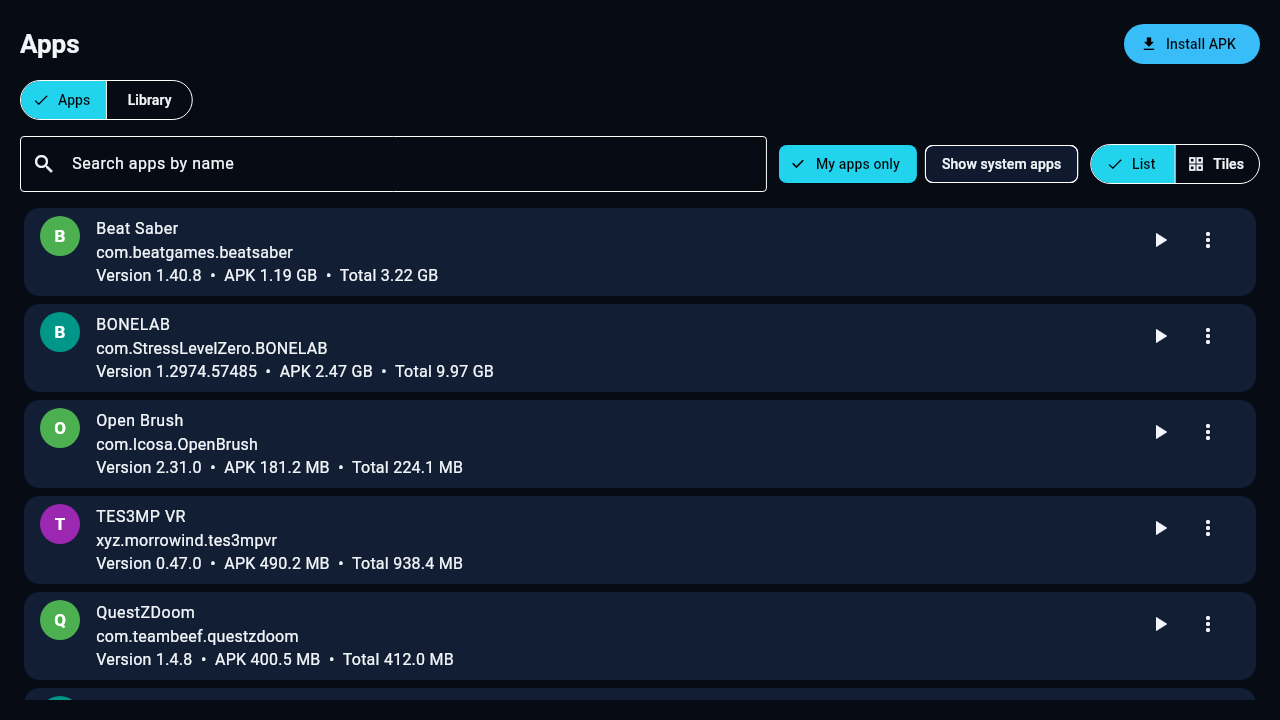
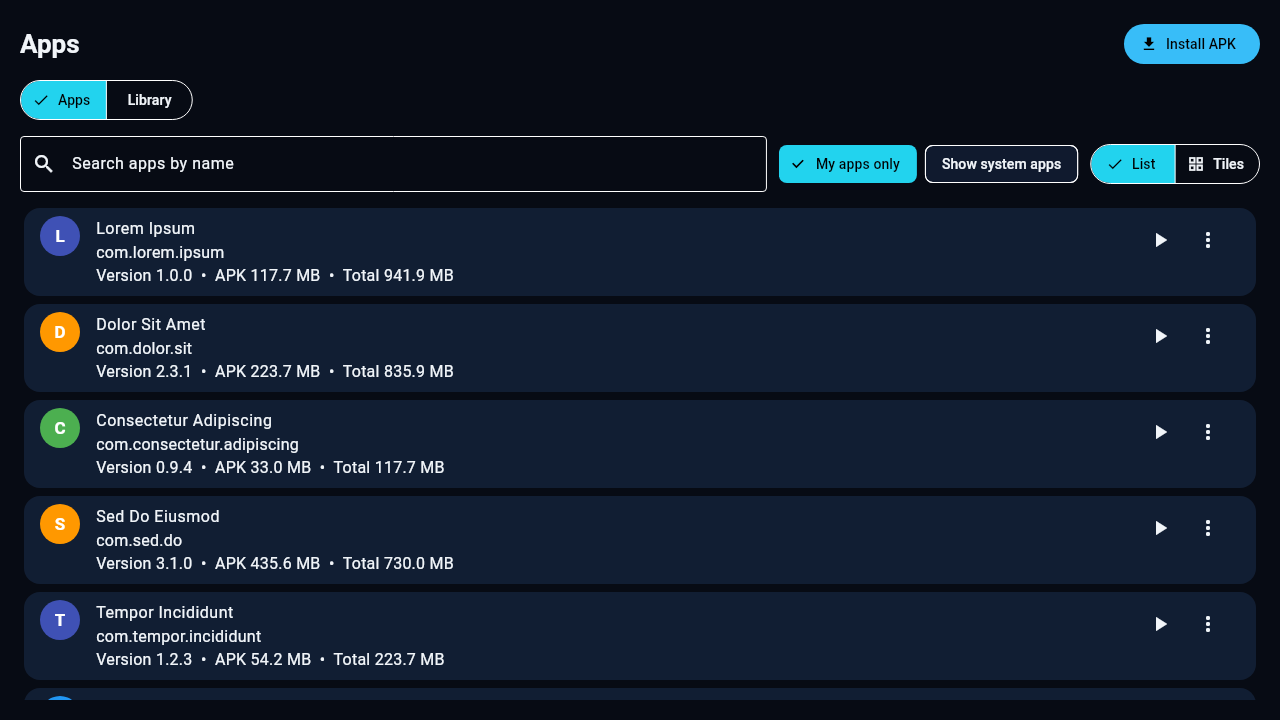
Screenshots: all screens with Lorem Ipsum data; drop package line from app tiles (overflowed with long names)

diff --git a/flutter_app/test/widget/apps_screenshots_test.dart b/flutter_app/test/widget/apps_screenshots_test.dart
@@ -1,7 +1,7 @@
-// Screenshot goldens for the README: the Apps screen rendered with
-// fake (invented) data, so the GitHub page can show the app without
-// a real headset and without any real user data. Nothing here is a
-// real serial, IP, or firmware value.
+// Screenshot goldens for the README: every screen rendered with
+// Lorem Ipsum placeholder data, so the GitHub page can show the app
+// without a real headset and without any real user data. Nothing here
+// is a real serial, IP, firmware value, app, file, or log line.
 // Regenerate with:
 //   flutter test --update-goldens test/widget/apps_screenshots_test.dart
 // The PNGs land in test/widget/goldens/; the README copies live in
@@ -14,6 +14,10 @@ import 'package:flutter/services.dart';
 import 'package:flutter_test/flutter_test.dart';
 import 'package:quest_companion/models.dart';
 import 'package:quest_companion/screens/apps_files.dart';
+import 'package:quest_companion/screens/device_mirror_logs_setup.dart';
+import 'package:quest_companion/screens/help.dart';
+import 'package:quest_companion/screens/home_devices.dart';
+import 'package:quest_companion/screens/pc_vr.dart';
 import 'package:quest_companion/services/app_state.dart';
 import 'package:quest_companion/services/backend.dart';
 import 'package:quest_companion/theme.dart';
@@ -25,21 +29,66 @@ const _device = QuestDevice(
   transport: 'usb',
 );
 
-// Fake apps, all invented: same set as
-// scripts/screenshot-mock-adb.sh, so the README shots and the
-// (unused) live mock agree.
+const _deviceInfo = DeviceInfo(
+  model: 'Quest 2',
+  serial: 'TESTSERIAL000001',
+  firmware: 'Lorem ipsum 1.0.0',
+  androidVersion: '14',
+  resolution: '3664x1920',
+  cpuAbi: 'arm64-v8a',
+  batteryLevel: 87,
+  batteryTempC: 31,
+  storageUsedGb: 86,
+  storageTotalGb: 112,
+  charging: true,
+);
+
+// Fake apps, all Lorem Ipsum: the point is placeholder text, not
+// pretending to be real apps.
 const _apps = <QuestApp>[
-  QuestApp(package: 'com.beatgames.beatsaber', label: 'Beat Saber', version: '1.40.8', system: false, apkSizeBytes: 1280000000, totalSizeBytes: 3460000000),
-  QuestApp(package: 'com.StressLevelZero.BONELAB', label: 'BONELAB', version: '1.2974.57485', system: false, apkSizeBytes: 2650000000, totalSizeBytes: 10700000000),
-  QuestApp(package: 'com.Icosa.OpenBrush', label: 'Open Brush', version: '2.31.0', system: false, apkSizeBytes: 190000000, totalSizeBytes: 235000000),
-  QuestApp(package: 'xyz.morrowind.tes3mpvr', label: 'TES3MP VR', version: '0.47.0', system: false, apkSizeBytes: 514000000, totalSizeBytes: 984000000),
-  QuestApp(package: 'com.teambeef.questzdoom', label: 'QuestZDoom', version: '1.4.8', system: false, apkSizeBytes: 420000000, totalSizeBytes: 432000000),
-  QuestApp(package: 'com.itsmattkc.questhomeswitcher', label: 'Quest Home Switcher', version: '1.2.0', system: false, apkSizeBytes: 12000000, totalSizeBytes: 20000000),
-  QuestApp(package: 'com.deovr', label: 'DeoVR', version: '1.16', system: false, apkSizeBytes: 48000000, totalSizeBytes: 63000000),
+  QuestApp(package: 'com.lorem.ipsum', label: 'Lorem Ipsum', version: '1.0.0', system: false, apkSizeBytes: 123456789, totalSizeBytes: 987654321),
+  QuestApp(package: 'com.dolor.sit', label: 'Dolor Sit Amet', version: '2.3.1', system: false, apkSizeBytes: 234567890, totalSizeBytes: 876543210),
+  QuestApp(package: 'com.consectetur.adipiscing', label: 'Consectetur Adipiscing', version: '0.9.4', system: false, apkSizeBytes: 34567890, totalSizeBytes: 123456789),
+  QuestApp(package: 'com.sed.do', label: 'Sed Do Eiusmod', version: '3.1.0', system: false, apkSizeBytes: 456789012, totalSizeBytes: 765432109),
+  QuestApp(package: 'com.tempor.incididunt', label: 'Tempor Incididunt', version: '1.2.3', system: false, apkSizeBytes: 56789012, totalSizeBytes: 234567890),
+  QuestApp(package: 'com.ut.labore', label: 'Ut Labore Et', version: '4.0.0', system: false, apkSizeBytes: 67890123, totalSizeBytes: 345678901),
+  QuestApp(package: 'com.dolore.magna', label: 'Dolore Magna Aliqua', version: '0.1.0', system: false, apkSizeBytes: 78901234, totalSizeBytes: 456789012),
 ];
 
-/// Answers only the calls the Apps screen makes; anything else is
-/// an error, so a screen change that needs a new backend call fails
+const _files = <QuestFile>[
+  QuestFile(name: 'Lorem ipsum', path: '/sdcard/Lorem ipsum', isDir: true, size: 0),
+  QuestFile(name: 'Dolor sit amet', path: '/sdcard/Dolor sit amet', isDir: true, size: 0),
+  QuestFile(name: 'Consectetur', path: '/sdcard/Consectetur', isDir: true, size: 0),
+  QuestFile(name: 'Lorem ipsum dolor.txt', path: '/sdcard/Lorem ipsum dolor.txt', isDir: false, size: 123456),
+  QuestFile(name: 'Sed do eiusmod.mp4', path: '/sdcard/Sed do eiusmod.mp4', isDir: false, size: 234567890),
+  QuestFile(name: 'Ut labore.pdf', path: '/sdcard/Ut labore.pdf', isDir: false, size: 3456789),
+  QuestFile(name: 'Dolore magna.png', path: '/sdcard/Dolore magna.png', isDir: false, size: 4567890),
+];
+
+const _gallery = <GalleryEntry>[
+  GalleryEntry(name: 'Lorem ipsum.png', path: '/sdcard/Lorem ipsum.png', kind: 'screenshot', modified: 'Lorem ipsum', sizeBytes: 1234567),
+  GalleryEntry(name: 'Dolor sit amet.mp4', path: '/sdcard/Dolor sit amet.mp4', kind: 'recording', modified: 'Dolor sit amet', sizeBytes: 234567890),
+  GalleryEntry(name: 'Consectetur.mp4', path: '/sdcard/Consectetur.mp4', kind: 'recording', modified: 'Consectetur', sizeBytes: 345678901),
+];
+
+const _logLines = <String>[
+  'Lorem ipsum dolor sit amet, consectetur adipiscing elit.',
+  'Sed do eiusmod tempor incididunt ut labore et dolore magna aliqua.',
+  'Ut enim ad minim veniam, quis nostrud exercitation ullamco laboris.',
+  'Duis aute irure dolor in reprehenderit in voluptate velit esse.',
+  'Excepteur sint occaecat cupidatat non proident, sunt in culpa.',
+  'Lorem ipsum dolor sit amet, consectetur adipiscing elit.',
+  'Sed do eiusmod tempor incididunt ut labore et dolore magna aliqua.',
+  'Ut enim ad minim veniam, quis nostrud exercitation ullamco laboris.',
+];
+
+const _deviceBackups = <DeviceBackupEntry>[
+  DeviceBackupEntry(serial: 'TESTSERIAL000001', backupDate: '2026-01-01 12:00', path: '/sdcard/LoremIpsum/lorem.zip', totalSizeBytes: 123456789, appCount: 7),
+  DeviceBackupEntry(serial: 'TESTSERIAL000001', backupDate: '2026-01-02 12:00', path: '/sdcard/LoremIpsum/ipsum.zip', totalSizeBytes: 234567890, appCount: 7),
+];
+
+/// Answers the calls the screens make at load; anything else is an
+/// error, so a screen change that needs a new backend call fails
 /// loudly here instead of silently rendering an empty screen.
 class FakeBackend implements BackendService {
   @override
@@ -48,10 +97,59 @@ class FakeBackend implements BackendService {
     if (name == #listApps) return Future<List<QuestApp>>.value(_apps);
     if (name == #listLibrary) return Future<List<LibraryEntry>>.value(const []);
     if (name == #listDevices) return Future<List<QuestDevice>>.value(const [_device]);
-    if (name == #deviceInfo) return Future<DeviceInfo?>.value(null);
+    if (name == #deviceInfo) return Future<DeviceInfo?>.value(_deviceInfo);
     if (name == #appIcon) return Future<AppIcon?>.value(null);
     if (name == #label) return 'Fake backend';
     if (name == #scrcpyAvailable) return Future<bool>.value(false);
+    if (name == #listFiles) return Future<List<QuestFile>>.value(_files);
+    if (name == #listGallery) return Future<List<GalleryEntry>>.value(_gallery);
+    if (name == #logLines) return Future<List<String>>.value(_logLines);
+    if (name == #rootStatus) {
+      return Future<RootStatus>.value(const RootStatus(
+        rooted: true, method: 'Magisk', suPresent: true, magiskPresent: true, singularityPresent: false));
+    }
+    if (name == #controllers) {
+      return Future<ControllersInfo>.value(const ControllersInfo(
+        names: ['Lorem Controller', 'Ipsum Controller'],
+        note: 'Lorem ipsum dolor sit amet, consectetur adipiscing elit.'));
+    }
+    if (name == #updateBlockStatus) {
+      return Future<UpdateBlockStatus?>.value(const UpdateBlockStatus(
+        blocked: false, rooted: true, disabledPackages: []));
+    }
+    if (name == #listDeviceBackups) return Future<List<DeviceBackupEntry>>.value(_deviceBackups);
+    if (name == #wivrnSetupState) {
+      return Future<Map<String, dynamic>>.value({
+        'client_version': '26.9', 'declined': false, 'server_installed': true,
+      });
+    }
+    if (name == #wivrnDetect) {
+      return Future<Map<String, dynamic>>.value({
+        'installed': true, 'kind': 'flatpak', 'server_version': '26.9',
+        'avahi_active': true, 'pipewire': true, 'port': 9757,
+        'note': 'Lorem ipsum dolor sit amet.',
+      });
+    }
+    if (name == #wivrnStatus) {
+      return Future<Map<String, dynamic>>.value({
+        'running': true, 'port_listening': true, 'active_runtime_is_wivrn': true,
+        'pipewire_nodes': true,
+        'log': 'Lorem ipsum dolor sit amet, consectetur adipiscing elit.\nSed do eiusmod tempor incididunt.',
+      });
+    }
+    if (name == #wivrnHeadsetClient) return Future<String?>.value('26.9');
+    if (name == #setupWifi) return Future<WifiSetupResult?>.value(null);
+    if (name == #wifiReconnect) return Future<List<String>>.value(const []);
+    if (name == #debugInfo) {
+      return Future<DebugInfo?>.value(const DebugInfo(
+        questctlVersion: 'Lorem ipsum',
+        adbVersion: 'Lorem ipsum',
+        backendPath: 'Fake backend',
+        scrcpyAvailable: false,
+        root: RootStatus(rooted: true, method: 'Magisk', suPresent: true, magiskPresent: true, singularityPresent: false),
+        device: _deviceInfo,
+      ));
+    }
     return super.noSuchMethod(invocation);
   }
 }
@@ -91,32 +189,98 @@ Future<void> _loadFonts() async {
   }
 }
 
-Future<void> _pumpApps(WidgetTester tester, {bool tiles = false}) async {
+Future<void> _pump(WidgetTester tester, AppState state, Widget screen) async {
   tester.view.physicalSize = const Size(1280, 720);
   tester.view.devicePixelRatio = 1.0;
   addTearDown(tester.view.resetPhysicalSize);
   addTearDown(tester.view.resetDevicePixelRatio);
+  await tester.pumpWidget(MaterialApp(
+    theme: AppTheme.themeFor(DesignDirection.vrNeon),
+    home: Scaffold(body: screen),
+  ));
+  await tester.pumpAndSettle();
+}
+
+AppState _state() {
   final state = AppState(backend: FakeBackend());
   state.selectedDevice = _device;
   state.devices = [_device];
-  if (tiles) state.setAppsTiles(true);
-  await tester.pumpWidget(MaterialApp(
-    theme: AppTheme.themeFor(DesignDirection.vrNeon),
-    home: Scaffold(body: AppsScreen(state: state)),
-  ));
-  await tester.pumpAndSettle();
+  // Normally refreshDevices fills this in from the backend; the
+  // golden pumps set the device directly, so set it here too.
+  state.deviceInfo = _deviceInfo;
+  state.log('Lorem ipsum dolor sit amet');
+  state.log('Dolor sit amet, consectetur');
+  state.log('Sed do eiusmod tempor');
+  return state;
 }
 
 void main() {
   setUpAll(_loadFonts);
 
+  testWidgets('Home screen', (WidgetTester tester) async {
+    final state = _state();
+    await _pump(tester, state, HomeScreen(state: state, goTo: (_) {}));
+    await expectLater(find.byType(HomeScreen), matchesGoldenFile('goldens/home.png'));
+  });
+
+  testWidgets('Devices screen', (WidgetTester tester) async {
+    final state = _state();
+    await _pump(tester, state, DevicesScreen(state: state));
+    await expectLater(find.byType(DevicesScreen), matchesGoldenFile('goldens/devices.png'));
+  });
+
   testWidgets('Apps screen, list view', (WidgetTester tester) async {
-    await _pumpApps(tester);
+    final state = _state();
+    await _pump(tester, state, AppsScreen(state: state));
     await expectLater(find.byType(AppsScreen), matchesGoldenFile('goldens/apps-list.png'));
   });
 
   testWidgets('Apps screen, tiles view', (WidgetTester tester) async {
-    await _pumpApps(tester, tiles: true);
+    final state = _state();
+    state.setAppsTiles(true);
+    await _pump(tester, state, AppsScreen(state: state));
     await expectLater(find.byType(AppsScreen), matchesGoldenFile('goldens/apps-tiles.png'));
+  });
+
+  testWidgets('Files screen', (WidgetTester tester) async {
+    final state = _state();
+    await _pump(tester, state, FilesScreen(state: state));
+    await expectLater(find.byType(FilesScreen), matchesGoldenFile('goldens/files.png'));
+  });
+
+  testWidgets('Device and Settings screen', (WidgetTester tester) async {
+    final state = _state();
+    await _pump(tester, state, DeviceSettingsScreen(state: state));
+    await expectLater(find.byType(DeviceSettingsScreen), matchesGoldenFile('goldens/device-settings.png'));
+  });
+
+  testWidgets('Mirror screen', (WidgetTester tester) async {
+    final state = _state();
+    await _pump(tester, state, MirrorScreen(state: state));
+    await expectLater(find.byType(MirrorScreen), matchesGoldenFile('goldens/mirror.png'));
+  });
+
+  testWidgets('PC VR screen', (WidgetTester tester) async {
+    final state = _state();
+    await _pump(tester, state, PcVrScreen(state: state));
+    await expectLater(find.byType(PcVrScreen), matchesGoldenFile('goldens/pc-vr.png'));
+  });
+
+  testWidgets('Logs screen', (WidgetTester tester) async {
+    final state = _state();
+    await _pump(tester, state, LogsScreen(state: state));
+    await expectLater(find.byType(LogsScreen), matchesGoldenFile('goldens/logs.png'));
+  });
+
+  testWidgets('Help screen', (WidgetTester tester) async {
+    final state = _state();
+    await _pump(tester, state, HelpScreen(state: state));
+    await expectLater(find.byType(HelpScreen), matchesGoldenFile('goldens/help.png'));
+  });
+
+  testWidgets('Setup screen', (WidgetTester tester) async {
+    final state = _state();
+    await _pump(tester, state, SetupScreen(state: state));
+    await expectLater(find.byType(SetupScreen), matchesGoldenFile('goldens/setup.png'));
   });
 }

diff --git a/flutter_app/lib/screens/apps_files.dart b/flutter_app/lib/screens/apps_files.dart
@@ -168,7 +168,6 @@ class _AppsScreenState extends State<AppsScreen> {
                                           ),
                                           const SizedBox(height: 8),
                                           Text(a.label, maxLines: 2, overflow: TextOverflow.ellipsis, textAlign: TextAlign.center, style: const TextStyle(fontWeight: FontWeight.bold)),
-                                          Text(a.package, maxLines: 1, overflow: TextOverflow.ellipsis, textAlign: TextAlign.center, style: const TextStyle(fontSize: 12)),
                                           Text('Version ${a.version}', textAlign: TextAlign.center, style: const TextStyle(fontSize: 12)),
                                           if (_sizeText(a).isNotEmpty) Text(_sizeText(a), textAlign: TextAlign.center, style: const TextStyle(fontSize: 12)),
                                           const Spacer(),

diff --git a/README.md b/README.md
@@ -29,11 +29,49 @@ Why? Meta is winding down Quest 2 support (last features in Horizon OS v2.13, Ma
 
 ## 📸 Screenshots
 
-The Apps screen, list view and tiles view. These are rendered from the app's own widget tests with made-up app data, so you can see what it looks like without a headset plugged in.
+Every screen, rendered from the app's own widget tests with Lorem Ipsum placeholder data, so you can see what it looks like without a headset plugged in. No real data in any of them.
+
+### Home
+
+![Home screen](assets/screenshots/home.png)
+
+### Devices
+
+![Devices screen](assets/screenshots/devices.png)
+
+### Apps, list and tiles
 
 ![Apps screen, list view](assets/screenshots/apps-list.png)
 
 ![Apps screen, tiles view](assets/screenshots/apps-tiles.png)
+
+### Files
+
+![Files screen](assets/screenshots/files.png)
+
+### Device and settings
+
+![Device and settings screen](assets/screenshots/device-settings.png)
+
+### Mirror
+
+![Mirror screen](assets/screenshots/mirror.png)
+
+### PC VR (WiVRn)
+
+![PC VR screen](assets/screenshots/pc-vr.png)
+
+### Logs
+
+![Logs screen](assets/screenshots/logs.png)
+
+### Help
+
+![Help screen](assets/screenshots/help.png)
+
+### Setup
+
+![Setup screen](assets/screenshots/setup.png)
 
 ## ⬇ Download
 
